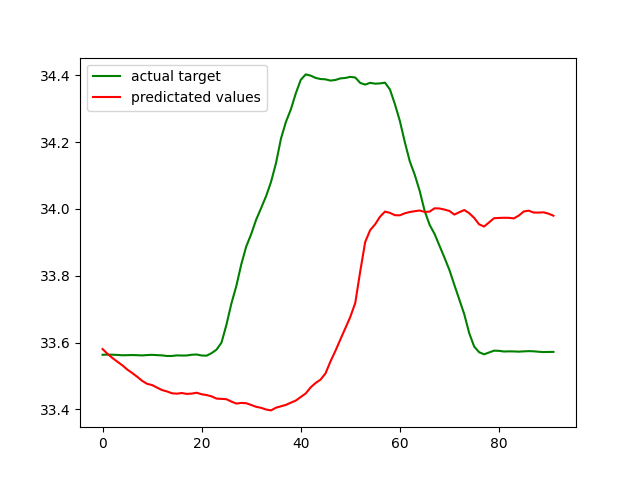
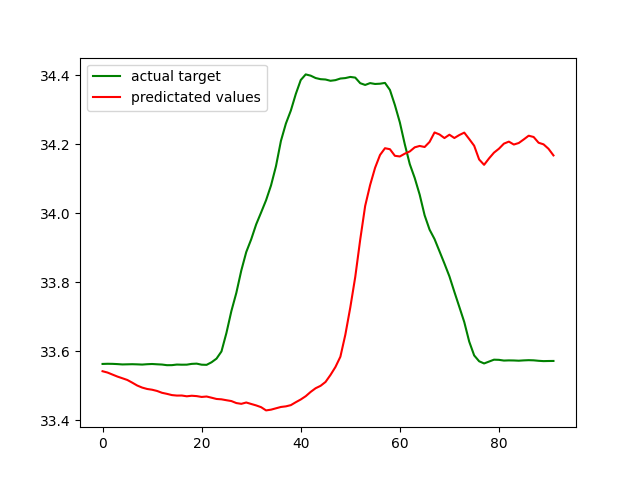
check force values on graph

diff --git a/groundtruth.py b/groundtruth.py
@@ -55,7 +55,7 @@ for root, dirs, files in os.walk(finalpath_groundtruth):
             
             Gain = 100;
             FS = 100;
-            Sens = 2;
+            Sens = 0.002;
             F = Forza(gt,FS,Sens,Gain)
             MA = 10.5;                   #measured value from lab
             
@@ -79,14 +79,16 @@ for root, dirs, files in os.walk(finalpath_groundtruth):
 
             # "------plot of the Force-------"
 
-            # plt.plot(gt.iloc[:100])
-            # plt.title("original data from AUX Input")
-            # plt.show()
+            #plt.plot(gt.iloc[:100])
+            #plt.title("original data from AUX Input")
+            #plt.show()
             
-            # pd.set_option('precision',10)
-            # figure(1)
-            # plt.plot(F.iloc[:100])
-            # plt.title("Force")
+            #pd.set_option('precision',10)
+            figure(1)
+            plt.plot(F.iloc[:100])
+            #plt.title("Force")
+            plt.savefig(CWD + '/figures/Force.png')
+            plt.show()
 
             # figure(2)
             # plt.plot(TRQ.iloc[:100])

diff --git a/feedforward.py b/feedforward.py
@@ -149,8 +149,11 @@ def main():
     ## if we are having r2_score bigger of train set then in test set, we are probably overfitting
     RMSE_train = np.square(np.subtract(train_target, train_targets_pred)).mean()
     RMSE_test = np.square(np.subtract(test_target,test_targets_pred)).mean()
+    mean_test_target = test_target.mean()
+    SI_test = RMSE_test / mean_test_target
     print("The RMSE on Train set is: ", RMSE_train)
     print("The RMSE on Test set is: ", RMSE_test)
+    print("The SI on Test set is: ", SI_test)
 
     
 
